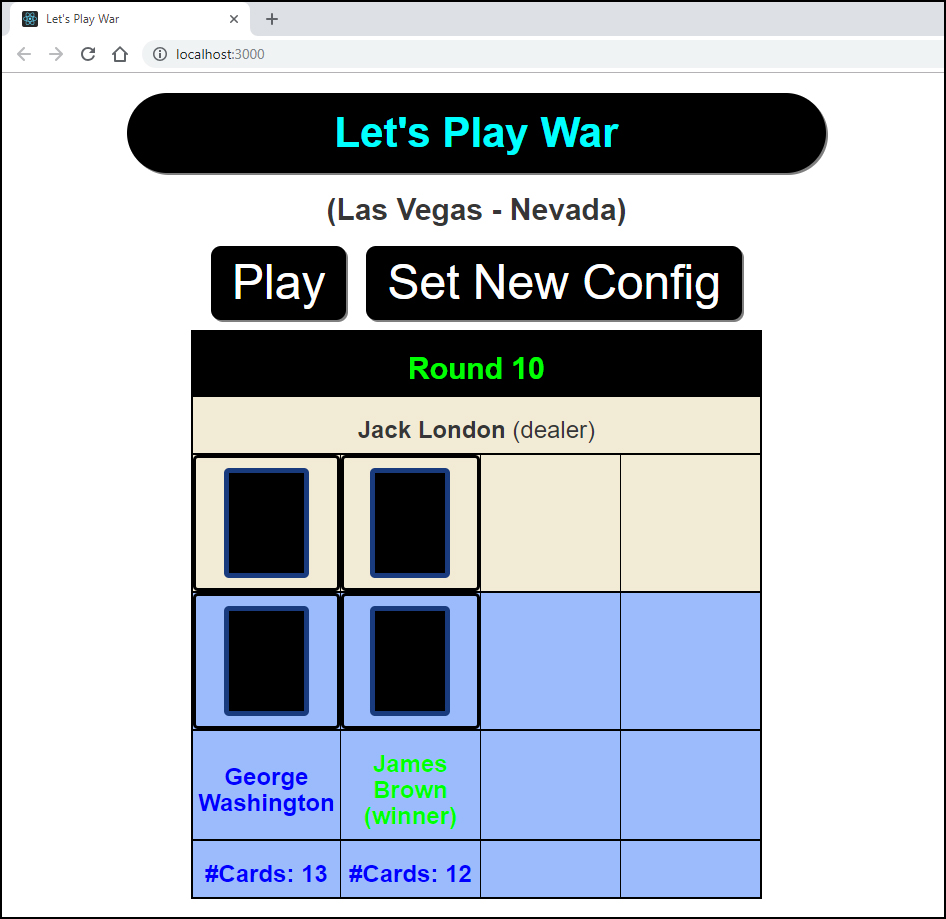
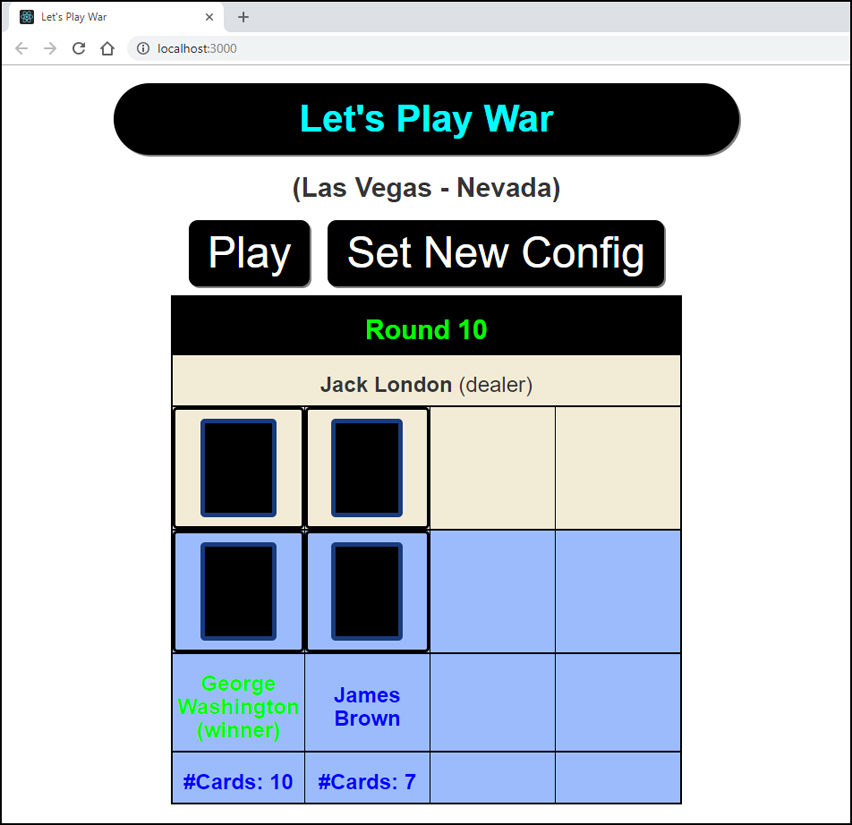
Done!

diff --git a/client/src/actions/warGameActions.js b/client/src/actions/warGameActions.js
@@ -98,7 +98,7 @@ const getScores = (war) => {
             availableCards[cards[i].playerCard] = localCst.CARD_AVAILABLE // available again
             availableCards[cards[i].dealerCard] = localCst.CARD_AVAILABLE // available again
         }
-        if (cards[i].cardsWon.length > war.maxScore) maxScore = cards[i].cardsWon.length
+        if (cards[i].cardsWon.length > maxScore) maxScore = cards[i].cardsWon.length
     }
     return {
         availableCards: availableCards,
